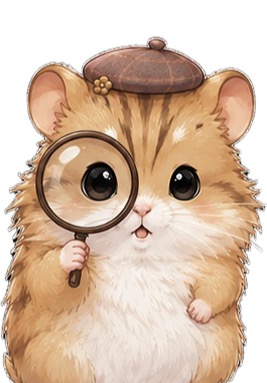
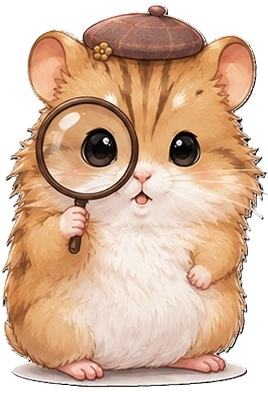
remove backgrounds from hamsters, add pollys photos

diff --git a/craft-app/src/hamsters/hamsters.ts b/craft-app/src/hamsters/hamsters.ts
@@ -39,7 +39,7 @@ export const SEASONAL_HAMSTERS: SeasonalHamster[] = (
     const n = i + 1;
     return {
       id: `hamster_${season}_${n}`,
-      image: `/assets/hamsters/hamster_${season}_${n}.png`,
+      image: `/assets/hamsters/hamster_${season}_${n}.JPG`,
       season,
     };
   })
